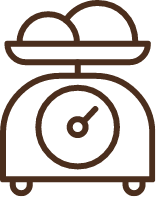
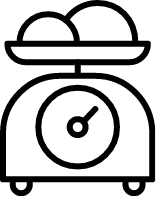
Feat: Color Change

Changed region(s): [[0.0, 0.0, 1.0, 1.0]]

diff --git a/css/sub.css b/css/sub.css
@@ -34,7 +34,7 @@
 /* nybagel */
 #newyork {
   padding: 8em 0;
-  background-color: #F5F2E9;
+  background-color: #f4f4f4;
 }
 
 #nybagel video {
@@ -53,23 +53,23 @@
   margin: 14em 0 8em;
 }
 
-.category {
+#menu .category {
   display: flex;
   align-items: center;
   justify-content: center;
   margin-bottom: 6em;
 }
 
-.category li {
+#menu .category li {
   position: relative;
   margin-right: 3em;
 }
 
-.category li:last-child {
+#menu .category li:last-child {
   margin-right: 0;
 }
 
-.category li.on:after {
+#menu .category li.on:after {
   content: "";
   position: absolute;
   bottom: -0.2em;
@@ -78,17 +78,17 @@
   display: block;
   width: 110%;
   height: 2px;
-  background-color: #965B39;
+  background-color: #555;
 }
 
-.category a {
+#menu .category a {
   position: relative;
   font-size: 2rem;
-  color: #965B39;
+  color: #555;
   opacity: 0.6;
 }
 
-.category a:before {
+#menu .category a:before {
   content: "";
   position: absolute;
   top: -1.5em;
@@ -98,61 +98,63 @@
   width: 0.3em;
   height: 0.3em;
   border-radius: 50%;
-  background-color: #965B39;
+  background-color: #555;
   transition: all 0.5s;
   opacity: 0;
 }
 
-.category a:hover {
+#menu .category a:hover {
   opacity: 1;
 }
 
-.category a:hover:before {
+#menu .category a:hover:before {
   top: -0.6em;
   opacity: 1;
 }
 
-.category li.on a {
+#menu .category li.on a {
   font-weight: 600;
   opacity: 1;
 }
 
-.product {
+#menu .product {
   display: flex;
   align-items: center;
   flex-wrap: wrap;
 }
 
-.product li {
+#menu .product li {
   width: calc((100% - 9em) / 4);
   margin-right: 3em;
 }
 
-.product li:nth-child(4n) {
+#menu .product li:nth-child(4n) {
   margin-right: 0;
 }
 
-.product li:nth-child(n + 5) {
+#menu .product li:nth-child(n + 5) {
   margin-top: 4em;
 }
 
-.product figure {
+#menu .product figure {
   margin-bottom: 1em;
   overflow: hidden;
 }
 
-.product img {
+#menu .product img {
   width: 100%;
 }
 
-.product p {
+#menu .product p {
   text-align: center;
-  color: #965B39;
+  color: #555;
 }
 
-.product h5 {
+#menu .product h5 {
   font-size: 1.8rem;
   font-weight: 600;
   text-align: center;
-  color: #4B2E1D;
+  color: #000;
 }
+
+/* hongdae */

diff --git a/css/common.css b/css/common.css
@@ -20,11 +20,11 @@
 
 ::-webkit-scrollbar-thumb {
     border-radius: 5px;
-    background-color: #222;
+    background-color: #000;
 }
 
 ::selection {
-    background: #4B2E1D;
+    background: #000;
     color: #fff;
     text-shadow: none;
 }
@@ -149,7 +149,7 @@ body {
     font-size: 1.5rem;
     font-weight: 400;
     line-height: 1.4;
-    color: #222;
+    color: #000;
     overflow-x: hidden;
 }
 
@@ -199,7 +199,7 @@ header .logo img {
 header nav {
     width: 100vw;
     padding: 0.8em 0;
-    background-color: #4B2E1D;
+    background-color: #000;
 }
 
 header nav ul {
@@ -216,27 +216,27 @@ header nav a {
     font-size: 1.8rem;
     font-weight: 500;
     letter-spacing: 0.1em;
-    color: #fff;
+    color: #eee;
     transition: all 0.2s;
 }
 
 header nav a:hover {
-    color: #ECE5D3;
+    color: #fff;
 }
 
 header nav li.on a {
     font-weight: 600;
-    color: #ECE5D3;
+    color: #fff;
 }
 
 /* footer */
 footer {
     padding: 2em 0;
-    background-color: #E2D8BE;
+    background-color: #eee;
 }
 
 footer li {
-    color: #965B39;
+    color: #555;
 }
 
 footer b {
@@ -246,7 +246,7 @@ footer b {
 footer p {
     position: relative;
     margin-top: 2em;
-    color: #965B39;
+    color: #555;
     opacity: 0.8;
 }
 
@@ -271,7 +271,7 @@ footer p::before {
     align-items: center;
     width: 3.5em;
     height: 3.5em;
-    background-color: #965B39;
+    background-color: #555;
     border: 1px solid #fff;
     border-radius: 50%;
     color: #fff;

diff --git a/css/main.css b/css/main.css
@@ -83,7 +83,7 @@ section p {
 /* street */
 #street {
   padding: 8em 0;
-  background-color: #F5F2E9;
+  background-color: #f4f4f4;
 }
 
 #street img {
@@ -139,7 +139,7 @@ section p {
   height: 15em;
   margin-right: 2em;
   border-radius: 50%;
-  background-color: #F5F2E9;
+  background-color: #f4f4f4;
 }
 
 #membership li:last-child {
@@ -152,7 +152,7 @@ section p {
 }
 
 #membership p {
-  color: #4B2E1D;
+  color: #000;
 }
 
 #membership strong {
@@ -162,7 +162,7 @@ section p {
   font-size: 2.4rem;
   font-weight: 600;
   text-align: center;
-  color: #4B2E1D;
+  color: #000;
 }
 
 #membership span {

diff --git a/store/store.html b/store/store.html
@@ -88,6 +88,13 @@
     </header>
     <!-- // header -->
 
+    <!-- hongdae -->
+    <scetion id="hongdae">
+      <div class="inner">
+        
+      </div>
+    </scetion>
+
     <!-- footer -->
     <footer>
       <div class="inner">
